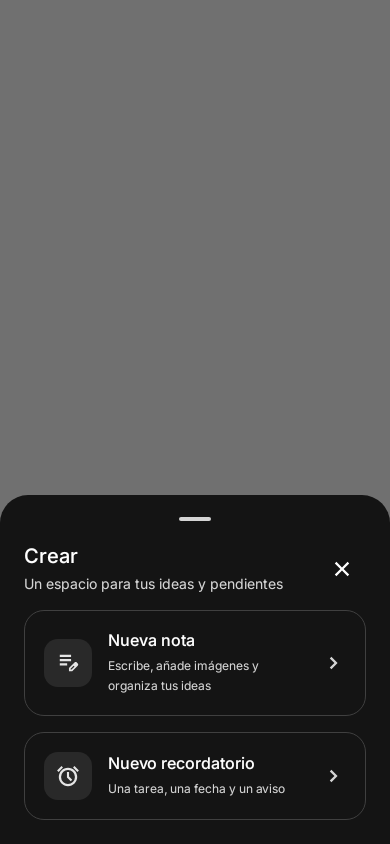
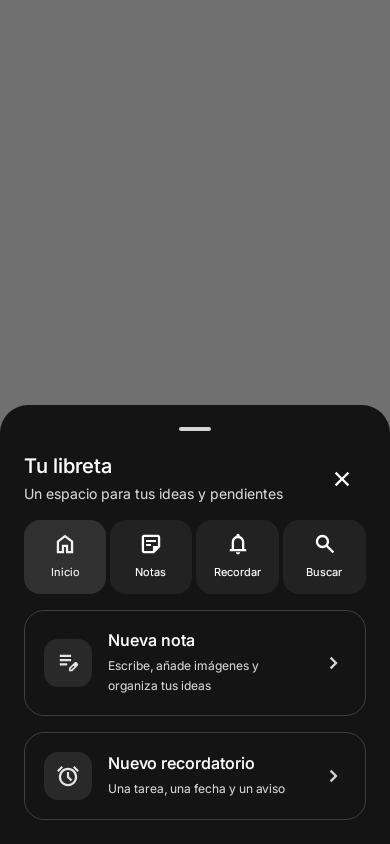
docs: describe To Dos features and refresh verified previews

Changed region(s): [[0.0, 0.4621, 1.0, 0.7085], [0.8, 0.6161, 0.8923, 0.7085]]

diff --git a/docs/guia-de-uso.md b/docs/guia-de-uso.md
@@ -6,18 +6,18 @@ Clean Mind permite guardar ideas y apuntes personales en Android. No necesitas u
 
 | Zona | Qué muestra |
 | --- | --- |
-| Inicio | Fecha, contadores de notas y recordatorios y actividad reciente. |
+| Inicio | Cuadrícula de notas agrupadas por fecha de creación, con opción de agenda vertical. |
 | Notas | Notas normales, sin incluir recordatorios. |
 | Recordar | Acceso a la colección de recordatorios. Su pantalla se titula «Recordatorios». |
 | Buscar | Resultados por título o contenido. |
 | Editor | Título, subtítulo opcional, cuerpo de la nota, estado de guardado y acciones. |
 | Ajustes | Selección de apariencia e información sobre almacenamiento y recordatorios. |
 
-La barra inferior da acceso a Inicio, Notas, Recordar y Buscar. El **+** central permite crear una nota o un recordatorio; **¿Qué quieres guardar?** abre la captura rápida. La barra superior muestra Clean Mind o el nombre de la sección, con más separación. El engranaje abre Ajustes. La hoja del **+** presenta dos acciones grandes con su descripción.
+El botón flotante **+** abre **Tu libreta**: Inicio, Notas, Recordar, Buscar, Nueva nota y Nuevo recordatorio. Un doble toque en la lupa abre Buscar con el campo enfocado para escribir. La cabecera se oculta al bajar y reaparece al llegar al inicio; el engranaje abre Ajustes.
 
 ## Crear una nota
 
-1. Pulsa **+** en la barra inferior.
+1. Pulsa el botón flotante **+**.
 2. Elige **Nueva nota**.
 3. Escribe un título opcional; si lo dejas vacío, la app utiliza una primera línea legible al guardar.
 4. Añade un subtítulo opcional y el texto de la nota.
@@ -25,7 +25,7 @@ La barra inferior da acceso a Inicio, Notas, Recordar y Buscar. El **+** central
 
 También puedes crear la primera nota desde el botón del estado vacío.
 
-El editor guarda después de aproximadamente 600 ms sin nuevos cambios. Si vuelves con cambios válidos pendientes, intenta guardarlos antes de cerrar. El botón **A** de la barra inferior abre el formato del texto seleccionado o del párrafo actual.
+El editor guarda después de aproximadamente 600 ms sin nuevos cambios. Si vuelves con cambios válidos pendientes, intenta guardarlos antes de cerrar. La fila de formato permanece visible sobre el teclado; el botón de ajustes de formato abre las opciones adicionales.
 
 ## Entender el guardado
 
@@ -49,10 +49,7 @@ Mantén pulsada una tarjeta para abrir las opciones **Compartir nota** (texto o 
 
 Toca una tarjeta para abrir su contenido. Los cambios se guardan en la misma nota, manteniendo su identificador. Las colecciones conservan la fecha de última escritura para su orden habitual. La agenda de Inicio utiliza la fecha de creación independiente.
 
-En Notas puedes alternar entre:
-
-- **Lista:** elementos agrupados por día.
-- **Cuadrícula:** tarjetas distribuidas según el ancho disponible.
+Inicio se abre en cuadrícula. **Ver en agenda** cambia a una columna; **Ver en cuadrícula** recupera las tarjetas adaptables. Ambas conservan las fechas de creación y los separadores. En Notas y Buscar, **Cambiar vista** alterna lista y cuadrícula.
 
 La elección de vista pertenece al estado de cada pestaña. No hay un ajuste global de vista persistido en las preferencias.
 
@@ -124,28 +121,29 @@ Las notas se guardan localmente y se pueden consultar sin conexión. La aplicaci
 
 El manifiesto permite copias de seguridad del sistema. Por tanto, «sin sincronización propia» no equivale a garantizar que Android nunca respalde los datos. Consulta [Datos y migraciones](datos-y-migraciones.md) para conocer la configuración implementada.
 
-Se han probado creación, edición básica, agenda, formularios, compartir y notificaciones en un Xiaomi con API 36. Cámara, pegado de imágenes, lectores de pantalla y otros tamaños de dispositivo siguen pendientes; consulta [Pruebas](pruebas.md).
+El historial de pruebas físicas está en [Pruebas](pruebas.md). La revisión nueva de FAB, Markdown y cuadrícula está validada localmente; el realme se desconectó antes de instalar esta versión.
 
 [Índice de documentación](README.md).
 
 ## Formato y fotografías
 
-Pulsa **A** en la barra inferior para mostrar la fila **H₁, H₂, Aa, negrita, cursiva, subrayado y borrar formato**. La **×** cierra esa fila. Las opciones de tachado, alineación, sangría y espaciado están en **⋮ → Formato y espaciado**. Selecciona una palabra o un fragmento antes de cambiarlo. Sin selección, el formato se aplica al párrafo actual cuando contiene texto.
+El cuerpo se edita como Markdown, con resaltado de sintaxis y **Vista previa** para leer el resultado. **Editar Markdown** vuelve al texto sin modificarlo ni borrar el historial de la sesión. La barra muestra directamente negrita, cursiva, subrayado y listas; deslízala horizontalmente para acceder a los demás botones. **Más formato y espaciado** abre un único panel con:
 
-- Negrita, cursiva, subrayado y tachado. Los colores siguen el tema de la app.
-- Tamaños de título, subtítulo y texto normal.
-- Alineación izquierda, centro o derecha y sangría.
-- Listas con viñetas o numeradas sobre las líneas seleccionadas.
-- **Casilla**: añade una casilla al párrafo del cursor; vuelve a pulsar para marcarla o desmarcarla.
-- Interlineado de 1 a 2, espacio adicional entre líneas y separación entre párrafos. Estos ajustes de espaciado afectan a toda la nota.
-- **Sin formato** elimina las marcas del fragmento seleccionado; no restablece los ajustes globales de espaciado.
-- **Deshacer/Rehacer** funciona durante la sesión del editor; el historial no se guarda al cerrar.
+- Encabezados H1–H6 y texto normal.
+- Negrita, cursiva, subrayado mediante `<u>`, tachado y borrado del formato seleccionado.
+- Listas con viñetas, numeradas y tareas `- [ ]` / `- [x]`; también se conserva la lista de casillas independiente de las notas antiguas.
+- Código en línea, bloques de código, citas, enlaces con texto y dirección, tablas y separadores.
+- Sangría, alineación global de la nota, interlineado, espacio adicional entre líneas y separación entre párrafos.
 
-En **+**, **Añadir imagen** abre el selector y **Hacer foto** permite tomar una fotografía con una aplicación de cámara instalada. **Pegar imagen** y el menú nativo de pegado aceptan imágenes que el portapapeles exponga mediante una URI accesible. No descargan enlaces web como imágenes.
+Puedes escribir la sintaxis directamente. Intro continúa viñetas, números, tareas o citas; un elemento vacío termina la lista. Las tareas nuevas continúan sin marcar. Dentro de bloques de código no se continúan listas. **Deshacer/Rehacer** está en **⋮** y funciona durante la sesión.
+
+Abrir una nota antigua no la reescribe: se presenta una proyección compatible con Markdown que conserva texto, estilos básicos, casillas, adjuntos y metadatos. El documento pasa a Markdown cuando realizas una modificación. Las alineaciones por fragmento antiguas no tienen un equivalente portátil en Markdown; puedes aplicar una alineación global desde el panel.
+
+**Imagen** abre las opciones para elegir una foto, capturarla o pegarla desde una URI accesible del portapapeles. Los enlaces de imágenes remotas escritos en Markdown se muestran como referencias; no se descargan imágenes de Internet. Los adjuntos locales siguen visibles e incluidos en el PDF.
 
 Las imágenes se copian como JPEG privados de la app, con reducción de resolución y corrección de orientación EXIF. Aparecen después del texto y las casillas y pueden quitarse o moverse hacia arriba desde su menú **⋮**. Quitar un adjunto de una nota no borra la fotografía original de la galería. Los archivos privados que queden sin referencia todavía no tienen limpieza automática.
 
-No hay OCR, escaneo de documentos, tablas, dibujo, justificación ni posicionamiento de imágenes entre palabras. Las listas son texto editable: Intro continúa las viñetas, casillas o el siguiente número. Intro sobre un elemento vacío termina la lista. Pegar varios párrafos conserva el texto pegado.
+No hay OCR, escaneo de documentos, dibujo, justificación ni posicionamiento de los adjuntos entre palabras. Las tablas se representan como texto monoespaciado. Pegar varios párrafos conserva el texto pegado.
 
 La referencia visual de esta rama es el archivo Figma. Consulta [UI de Figma](figma-ui.md) para las pantallas, recursos, funciones y límites de comparación.
 

diff --git a/docs/pruebas.md b/docs/pruebas.md
@@ -34,7 +34,7 @@ Los filtros mostrados corresponden a las clases presentes en el repositorio.
 
 | Clase | Casos | Comportamiento comprobado |
 | --- | --- | --- |
-| `EditNoteViewModelTest` | 12 | Autoguardados sobre la misma fila, salida inmediata, escritura lenta, fallos y reintento, guardado explícito de recordatorios, salida repetida, reversión del texto, título vacío, borrador restaurado, texto literal `Remember` y fallo de carga; creación de una nota en la carpeta seleccionada. |
+| `EditNoteViewModelTest` | 13 | Autoguardados sobre la misma fila, salida inmediata, escritura lenta, fallos y reintento, guardado explícito de recordatorios, salida repetida, reversión del texto, título vacío, borrador restaurado, texto literal `Remember` y fallo de carga; creación de una nota en la carpeta seleccionada. |
 | `NotesViewModelTest` | 9 | Filtros y búsqueda, reintento de carga, error de eliminación, detención de observación sin suscriptores y restauración de consulta/pestaña/carpeta, creación de carpetas y fallo/reintento de movimientos. |
 | `SettingsViewModelTest` | 1 | Conservación del tema persistido cuando falla una escritura y recuperación al reintentar. |
 | `NoteStorageTest` | 4 | Migración 2→4 con SQLite y operaciones de repositorio con IDs estables y orden de consulta. |
@@ -44,11 +44,12 @@ Los filtros mostrados corresponden a las clases presentes en el repositorio.
 | `DestinationTest` | 1 | Serialización y deserialización de destinos con argumentos tipados. |
 | `DateUtilsTest` | 2 | Agrupación de fechas de años distintos y detección de hoy/ayer. |
 | `RichEditorTest` | 12 | Compatibilidad con texto antiguo, serialización, reapertura con negrita, deshacer/rehacer, limpieza parcial, listas, casillas, espaciado, color con selección conservada y estado de la barra y continuación/salida de listas con Intro, subtítulos y conservación de metadatos al deshacer y disponibilidad del campo nativo para accesibilidad. |
+| `MarkdownEditorTest` | 7 | Proyección sin escritura de documentos antiguos, CommonMark con tablas/tareas/código y estilos anidados, enlaces y HTML literal, continuación/salida de listas, selección, deshacer con metadatos y texto legible para buscar/compartir. |
 | `ExampleUnitTest` | 1 | Prueba aritmética de ejemplo del proyecto; no valida funcionalidad de Clean Mind. |
 | `ReminderExportTest` | 5 | Repetición y serialización, programación/recuperación/cancelación de alarmas, TXT UTF-8 y paginación visual de exportación. |
-| `DesignUiTest` | 15 | Capturas locales, privacidad de previews, compartir con pulsación larga, búsqueda/cuadrícula, concentración, completado, ajustes, selección de fecha/hora y formulario independiente con confirmación al descartar y filtrado/movimiento de notas entre carpetas y exclusión de Volver en destinos ocultos, carpetas en cuadrícula y ausencia de búsqueda en Notas y botones del editor sin palabras partidas ni truncadas a 320 dp con fuente 1.35; ocultación al descender, permanencia oculta al invertir el scroll a mitad de la lista y reapertura al llegar al inicio, conservando los límites del contenido fuera de las barras. |
+| `DesignUiTest` | 18 | Capturas locales, privacidad de previews, compartir con pulsación larga, búsqueda/cuadrícula, concentración, completado, ajustes, selección de fecha/hora y formulario independiente con confirmación al descartar y filtrado/movimiento de notas entre carpetas y exclusión de Volver en destinos ocultos, carpetas en cuadrícula y ausencia de búsqueda en Notas y botones del editor sin palabras partidas ni truncadas a 320 dp con fuente 1.35; ocultación al descender, permanencia oculta al invertir el scroll a mitad de la lista y reapertura al llegar al inicio, conservando los límites del contenido fuera de las barras. |
 
-Total actual: **69 pruebas locales**, de las cuales una es el ejemplo aritmético original. Esta cifra describe la suite actual y debe revisarse al añadir o retirar casos; no es un porcentaje de cobertura de código.
+Total actual: **80 pruebas locales**, de las cuales una es el ejemplo aritmético original. Esta cifra describe la suite actual y debe revisarse al añadir o retirar casos; no es un porcentaje de cobertura de código.
 
 Las pruebas de ViewModel usan `kotlinx-coroutines-test` para controlar la ejecución y el tiempo virtual. `FakeNoteRepository` permite simular lentitud, errores y cambios observables.
 
@@ -67,9 +68,9 @@ Las carpetas `build/` contienen salidas generadas. No forman parte de la documen
 
 ## Estado conocido
 
-La última ejecución local de verificación de código terminó con compilación debug correcta, lint sin errores y 69 pruebas locales superadas, sin fallos ni casos omitidos. Lint conserva avisos sobre versiones de dependencias y recursos.
+La validación de la revisión de «To Dos» se documenta al final de esta página. Lint conserva avisos sobre versiones de dependencias y recursos.
 
-La comprobación de formato de Android Studio terminó con 101 archivos revisados y conformes al estilo compartido.
+La comprobación de formato de Android Studio usa el estilo compartido; la revisión nueva abarca 98 archivos.
 
 ## Validación en Xiaomi · 24 de noviembre de 2026
 
@@ -177,3 +178,14 @@ La cabecera de las pestañas del cuaderno usa ahora `exitUntilCollapsed`, conser
 La regresión de UI comprueba una agenda larga: cabecera visible al empezar, oculta tras descender, todavía oculta al invertir brevemente el desplazamiento con posición mayor que cero y visible de nuevo con la posición de scroll a cero. También comprueba el colapso en la cuadrícula y que Crear permanece visible. Esta revisión sustituye la cabecera siempre fija del apartado anterior.
 
 Resultado: compilaciones debug/release, lint de ambas variantes y las 69 pruebas locales correctas. Se instaló el APK debug en el realme mediante ADB inalámbrico. No se completó la comprobación manual de scroll al encontrarse el editor con una nota abierta; no se registra como prueba física superada.
+
+
+## Nota «To Dos» · 26 de noviembre de 2026
+
+Se comprobaron los seis puntos en orden: retirada de pantallas y recursos sin referencias; FAB con creación y navegación; doble toque en Buscar con campo enfocado; Markdown y vista previa; formato visible y panel único; cuadrícula de Inicio con vuelta a agenda y separadores por creación.
+
+La regresión de scroll sigue comprobando ocultación al bajar y reapertura solo al llegar al inicio. Las pruebas nuevas comprueban el foco directo de búsqueda, la distribución real en dos columnas y su cambio a agenda, la ausencia de contenido privado en tarjetas y la alternancia de vista previa sin cambios de documento. Se mantienen las pruebas de editor nativo, almacenamiento, recordatorios y exportación.
+
+El realme estuvo conectado al leer «To Dos» mediante una copia privada de la base. Después dejó de aparecer tanto en `adb devices` como en el descubrimiento mDNS. No se instaló ni se probó físicamente esta revisión, ni se modificó la nota original. Las imágenes actualizadas de `docs/ui-preview/` son capturas sintéticas de Robolectric, con datos de prueba.
+
+Resultado final: **80 pruebas locales superadas**, sin fallos, errores ni omisiones. `assembleDebug`, `assembleRelease`, `lintDebug` y `lintRelease` correctos. El formateador de Android Studio revisó 98 archivos. Se corrigió el helper de capturas JVM para invalidar las capas cacheadas de Compose antes de dibujar en Canvas; esto evita documentar capturas incompletas y no cambia el código de la app.

diff --git a/docs/arquitectura.md b/docs/arquitectura.md
@@ -164,7 +164,7 @@ La revisión arquitectónica del 23 de noviembre de 2026 utilizó estas fuentes 
 
 ## Editor enriquecido
 
-El cuerpo del editor integra `RichNoteEditor`, un EditText nativo dentro de Compose para mantener selección y menú de copiar/pegar. `NoteDocument` es el formato serializable sin dependencia de Android; los spans nativos se convierten a rangos al editar. `RichEditorContent` integra el campo nativo; `RichEditorController` conserva exclusivamente estado de UI (selección, historial disponible y resultados de galería/cámara). `EditorToolbar` presenta la barra inferior y las hojas de inserción y espaciado; `NoteImageStrip` presenta los adjuntos. El documento sigue siendo propiedad del ViewModel y todas las modificaciones viajan por `EnteredContent`. `NoteImages` encapsula la copia y normalización de los archivos en el almacenamiento privado. La nota resultante continúa pasando por el evento de contenido y el autoguardado del ViewModel.
+El cuerpo del editor integra `RichNoteEditor`, un EditText nativo dentro de Compose para mantener selección y menú de copiar/pegar. `NoteDocument` es el formato serializable sin dependencia de Android; los documentos antiguos conservan sus rangos y el editor actual utiliza texto fuente Markdown. `RichEditorContent` integra el campo nativo; `RichEditorController` conserva exclusivamente estado de UI (selección, historial disponible y resultados de galería/cámara). `MarkdownFormatBar` presenta herramientas visibles y un panel de formato y espaciado; `NoteImageStrip` presenta los adjuntos. El documento sigue siendo propiedad del ViewModel y todas las modificaciones viajan por `EnteredContent`. `NoteImages` encapsula la copia y normalización de los archivos en el almacenamiento privado. La nota resultante continúa pasando por el evento de contenido y el autoguardado del ViewModel.
 
 
 ## Avisos y exportaciones
@@ -173,7 +173,7 @@ El cuerpo del editor integra `RichNoteEditor`, un EditText nativo dentro de Comp
 
 `NoteExport` encapsula TXT UTF-8, PDF A4 con saltos de página e imágenes, archivos compartidos en caché y escritura mediante DocumentsContract. El permiso persistente SAF limita el acceso a la carpeta elegida; no se solicitan permisos generales de almacenamiento. `ExportMenu` realiza IO en background. Room sigue siendo la fuente de verdad; las copias TXT no restauran formatos ni adjuntos.
 
-La agenda de Inicio se presenta con `AgendaDayGroup`, agrupando por `Note.creationTimestamp()`. El repositorio conserva la creación dentro del documento independientemente del timestamp de edición. `CustomTopBar` y `BottomNavigationBar` vuelven a ser las barras activas de la libreta. Ajustes expone de nuevo apariencia y almacenamiento directamente.
+La agenda de Inicio se presenta con `HomeAgenda`, agrupando por `Note.creationTimestamp()`. El repositorio conserva la creación dentro del documento independientemente del timestamp de edición. `CustomTopBar` conserva `exitUntilCollapsed` y `NotebookFab` concentra la navegación y creación. `HomeAgenda` mantiene estados independientes para la cuadrícula y la agenda vertical. Ajustes expone de nuevo apariencia y almacenamiento directamente.
 
 ## Recordatorios como tareas
 
@@ -182,3 +182,12 @@ La agenda de Inicio se presenta con `AgendaDayGroup`, agrupando por `Note.creati
 Las carpetas usan la misma capa de datos, con `FolderEntity` y una clave externa de nota. Su operación expone carga, error y revisión de persistencia; las hojas solo confirman al completarse la escritura. `AppMotion` centraliza las transiciones y el contenedor guardable de pestañas conserva el scroll durante el cambio de vista. Consulta [Carpetas](carpetas.md) y [Movimiento](movimiento.md).
 
 `AppSurfaces.kt` centraliza las superficies tonales Material 3 y las hojas inferiores. El fondo se dibuja uniformemente desde el tema; ya no se captura ni se desenfoca mediante Haze. Las carpetas y las notas comparten una cuadrícula perezosa con spans distintos, y lista/cuadrícula usan contenedores separados durante el fundido. La colección científica se inicializa desde una implementación exclusiva de debug; el código release no añade ejemplos.
+
+
+## Markdown
+
+`MarkdownText` centraliza el parser CommonMark y las extensiones de tablas, tachado y tareas. Se fija commonmark-java 0.32.0, compatible con el mínimo API 24 de la app, según sus [notas de versión](https://github.com/commonmark/commonmark-java/releases/tag/v0.32.0) y [documentación](https://github.com/commonmark/commonmark-java).
+
+`MarkdownEditing` aplica transformaciones puras sobre texto y selección. `RichNoteEditor` mantiene IME, portapapeles nativo, resaltado e historial; `MarkdownRendering`, compartido por vista previa y PDF, produce spans nativos. No hay WebView ni ejecución de HTML. Los enlaces admiten HTTP, HTTPS y correo; los adjuntos continúan en almacenamiento privado. El editor nativo sigue compuesto al alternar la vista previa para conservar selección e historial.
+
+El booleano `NoteDocument.markdown`, con valor anterior `false`, se serializa dentro del contenido y no cambia el esquema Room 4. `MarkdownText.editable` proyecta los documentos antiguos sin persistir cambios al abrirlos. Búsqueda, TXT y copias de carpeta utilizan una representación legible; el PDF conserva los formatos soportados.

diff --git a/docs/figma-ui.md b/docs/figma-ui.md
@@ -6,8 +6,8 @@ Referencia: [Clean Mind, archivo de Figma](https://www.figma.com/design/qokv6yTT
 
 ## Implementación
 
-- Inicio con búsqueda, captura rápida y agenda vertical: separador horizontal y fecha completa, sin círculos ni etiquetas laterales y todas las notas creadas en ese día. No se limita a diez notas.
-- Barras anteriores recuperadas: título de Clean Mind y mayor separación superior; Inicio, Notas, «+» central, Recordar y Buscar en la barra inferior. Se mantienen colores y tipografía del estilo actual.
+- Inicio con búsqueda y cuadrícula adaptable, con opción de agenda vertical: separador horizontal y fecha completa, sin círculos ni etiquetas laterales y todas las notas creadas en ese día. No se limita a diez notas.
+- Cabecera opaca con ocultación al bajar y reapertura al llegar al inicio. Un FAB abre la navegación y la creación; doble toque en la lupa enfoca la búsqueda. Se mantienen colores y tipografía del estilo actual.
 - Filtros Todas, Fijadas, Con imágenes y Archivadas; vistas de lista y cuadrícula.
 - Tarjetas de título, subtítulo y metadatos. Se mantiene la petición anterior de ocultar el cuerpo en Home: las vistas previas de la referencia reciben el subtítulo independiente, no una extracción del contenido.
 - Editor con guardado visible, fijado, archivo, deshacer archivo, captura de listas/imágenes y hoja de recordatorio. Las herramientas de formato, compartir y exportar permanecen disponibles.
@@ -58,7 +58,7 @@ Una notificación puede pertenecer a una nota normal o a un recordatorio explíc
 
 `DesignUiTest` utiliza Compose y Robolectric con gráficos nativos, sin teléfono ni emulador. Comprueba ocultación del cuerpo, pulsación larga, búsqueda/cuadrícula, entrada/salida de concentración, completar sin eliminar, ajustes y selección de fecha/hora. Las capturas se generan en `/tmp/cleanmind-ui-*.png`; una selección está en [ui-preview](ui-preview/).
 
-La suite consta de 69 pruebas locales y dos pruebas instrumentadas. Además de los flujos comprobados anteriormente en Xiaomi, en el realme RMX3370 se verificaron cristal acelerado, carpetas, edición, imágenes de galería/cámara, portapapeles nativo, notificación en segundo plano y escritura SAF de TXT/PDF y copias automáticas. Consulta [Pruebas](pruebas.md) para el alcance y los casos pendientes.
+El recuento actualizado de la suite está en [Pruebas](pruebas.md). Además de los flujos comprobados anteriormente en Xiaomi, en el realme RMX3370 se verificaron cristal acelerado, carpetas, edición, imágenes de galería/cámara, portapapeles nativo, notificación en segundo plano y escritura SAF de TXT/PDF y copias automáticas. Consulta [Pruebas](pruebas.md) para el alcance y los casos pendientes.
 
 
 ## Ajustes solicitados el 24 de noviembre
@@ -76,3 +76,8 @@ Las carpetas en cuadrícula son un cambio posterior pedido por el usuario. El 25
 El 26 de noviembre se fijan las cabeceras y se hacen opacas para impedir superposiciones con el texto. La barra inferior pasa a estar acoplada al borde, con ancho completo. La distribución del contenido respeta el espacio reservado para ambas barras.
 
 La cabecera principal se ajusta después a `exitUntilCollapsed`: se oculta al descender y reaparece al alcanzar el inicio, manteniendo el fondo opaco y la separación del contenido para evitar textos superpuestos.
+
+
+## Cambios de la nota «To Dos»
+
+Se implementaron en orden numérico: limpieza de pantallas/recursos sin uso, FAB con los destinos y creación anteriores, búsqueda directa con doble toque, editor Markdown con vista previa, formato frecuente visible y cuadrícula de Inicio. La cuadrícula mantiene los separadores por creación y el modo agenda. Estos cambios posteriores a Figma son intencionados.

diff --git a/docs/mantenimiento.md b/docs/mantenimiento.md
@@ -14,7 +14,7 @@ Los cambios de comportamiento deben quedar reflejados en las pruebas pertinentes
 | Una regla de edición | `EditNoteUiState`, `EditNoteViewModel`, eventos, pantalla y pruebas del editor. |
 | Una nueva preferencia | Contrato y repositorio de preferencias, modelo, `SettingsViewModel`, UI y prueba de persistencia. |
 | Un destino independiente | `Destination`, enlaces de `NotesApp`, pantalla y prueba de serialización. |
-| Una vista del mismo cuaderno | Estado de `NotesViewModel`, pestañas, `NotebookScreen` y barra inferior. |
+| Una vista del mismo cuaderno | Estado de `NotesViewModel`, pestañas, `NotebookScreen`, `HomeAgenda` y `NotebookFab`. |
 | Colores o tipografía | `presentation/ui/theme/` y revisión de contraste y tamaños. |
 | Texto visible | `app/src/main/res/values/strings.xml` y guía de uso si afecta al recorrido. |
 
@@ -65,3 +65,5 @@ El workflow manual actual genera artefactos; no publica en una tienda. No hay un
 [Índice de documentación](README.md).
 
 La colección de ciencia está en `design/content/science-notes.json`. Solo debug la incorpora una vez; release usa un inicializador vacío. Mantén la importación aditiva y sus pruebas de idempotencia antes de cambiar los ejemplos. Consulta [Ciencia breve](ciencia-breve.md).
+
+Se retiraron las pantallas antiguas sin rutas activas, componentes duplicados, fuentes SF Pro/Lexend sin referencias y 57 textos sin uso. Las previsualizaciones utilizan el cuaderno real. No recuperar esos componentes para cambios nuevos.

diff --git a/docs/glass-ui.md b/docs/glass-ui.md
@@ -10,7 +10,7 @@ Las cabeceras conservan el fondo opaco del tema para impedir superposiciones. En
 
 El contenido del cuaderno aplica el padding medido por `Scaffold` y consume esos insets antes de componer listas, cuadrículas y recordatorios. Ese espacio se adapta a la altura visible de la cabecera y mantiene el viewport fuera de las barras. La franja de estado continúa protegida por el color del tema. La fecha de cada grupo conserva su semántica de encabezado y utiliza 16 sp y peso seminegrita.
 
-La barra inferior es un `NavigationBar` Material 3 acoplado al borde, sin márgenes exteriores, esquinas de tarjeta ni elevación flotante. Su superficie ocupa todo el ancho y también el área de navegación del sistema. Se conserva la acción central Crear.
+La navegación se concentra ahora en `NotebookFab`: un botón flotante Material 3 abre la hoja con destinos y creación. No hay barra inferior en la libreta. Las listas reservan 96 dp al final para mantener las últimas tarjetas fuera del botón; el editor conserva sus herramientas inferiores.
 
 Todas las hojas inferiores de la app pasan por `AppBottomSheet`. El propio `ModalBottomSheet` pinta su contenedor, incluida la separación de navegación del sistema. Así no queda una franja transparente que deje ver la barra de la app por debajo. Se conserva el manejo de insets de Material 3 y se desactiva el scrim adicional de contraste de navegación en la ventana de la hoja desde API 29.
 

diff --git a/docs/cambios-clean-mind.md b/docs/cambios-clean-mind.md
@@ -33,3 +33,8 @@ La revisión de cristal, cuadrícula y colección científica está en [Cristal]
 ## Material 3 · 25 de noviembre
 
 Se adopta la alternativa Material 3 solicitada para sustituir el cristal anterior. Fondo negro uniforme en oscuro, texto más contrastado, contenedores tonales, cabecera transparente con desplazamiento y protección del reloj, hojas inferiores continuas hasta el área de navegación y fecha de agenda de 16 sp en seminegrita. Haze deja de ser una dependencia. Compilación y lint de ambas variantes y 69 pruebas locales correctas; revisión visual en realme con tema claro y oscuro.
+
+
+## 26 de noviembre · Nota «To Dos»
+
+Los seis puntos se implementaron por orden numérico y con commits por funcionalidad: retirada de pantallas/recursos sin uso; navegación y creación mediante FAB; búsqueda enfocada al pulsar dos veces la lupa; fuente Markdown con vista previa y exportación compatible; herramientas de formato visibles y panel único; cuadrícula de Inicio con alternativa de agenda. Se conservan las fechas de creación, la privacidad de las tarjetas y el scroll de cabecera hasta el inicio. La revisión termina con 80 pruebas locales, compilaciones debug/release y lint correctos. No se actualizó el realme al perderse la conexión ADB después de leer la nota.

diff --git a/docs/datos-y-migraciones.md b/docs/datos-y-migraciones.md
@@ -148,3 +148,8 @@ La rama Figma añade campos opcionales `pinned`, `archived`, `reminderCompleted`
 ## Compatibilidad del cambio de marca
 
 El nombre visible y el proyecto Gradle pasan a Clean Mind. Se mantienen el paquete/applicationId `com.example.cleannotes`, el nombre de la base y los directorios privados para actualizar la instalación anterior. Los documentos nuevos usan el prefijo `CleanMind:document:1`; el lector sigue aceptando el prefijo histórico `CleanNotes:document:1` y el texto plano. Cambiar el nombre no requiere borrar datos ni migrar el esquema Room.
+
+
+## Documentos Markdown · 26 de noviembre de 2026
+
+El contenido incorpora `markdown: Boolean = false` y `textAlignment: Int = 0` como campos opcionales del documento JSON. Room continúa en versión 4. Los lectores siguen aceptando documentos anteriores y texto sin marcador. La apertura proyecta el texto antiguo para editarlo, sin ejecutar una escritura. El primer cambio conserva casillas, imágenes, subtítulo, creación, fijado, archivo y recordatorio, y guarda la fuente Markdown. El interlineado y la alineación global son metadatos de presentación; TXT utiliza texto legible y no constituye una copia restaurable de estos ajustes.

diff --git a/README.md b/README.md
@@ -6,10 +6,10 @@ La interfaz está construida con Jetpack Compose y Material 3. La arquitectura u
 
 ## Funciones
 
-- Crear, editar y eliminar notas con formato, listas, imágenes y deshacer/rehacer.
+- Crear, editar y eliminar notas con Markdown, vista previa, listas, tablas, imágenes y deshacer/rehacer.
 - Guardar automáticamente mientras escribes y mostrar el estado de guardado.
 - Consultar la actividad por fecha o cambiar a una cuadrícula adaptable.
-- Buscar por título y contenido.
+- Navegar y crear desde un FAB; doble toque en la lupa para buscar directamente por título y contenido.
 - Organizar notas en [carpetas](docs/carpetas.md) en cuadrícula, con creación, renombrado y movimiento.
 - Crear recordatorios con formulario propio de tarea, fecha y hora y guardado explícito.
 - Compartir texto mediante el selector de aplicaciones de Android.
